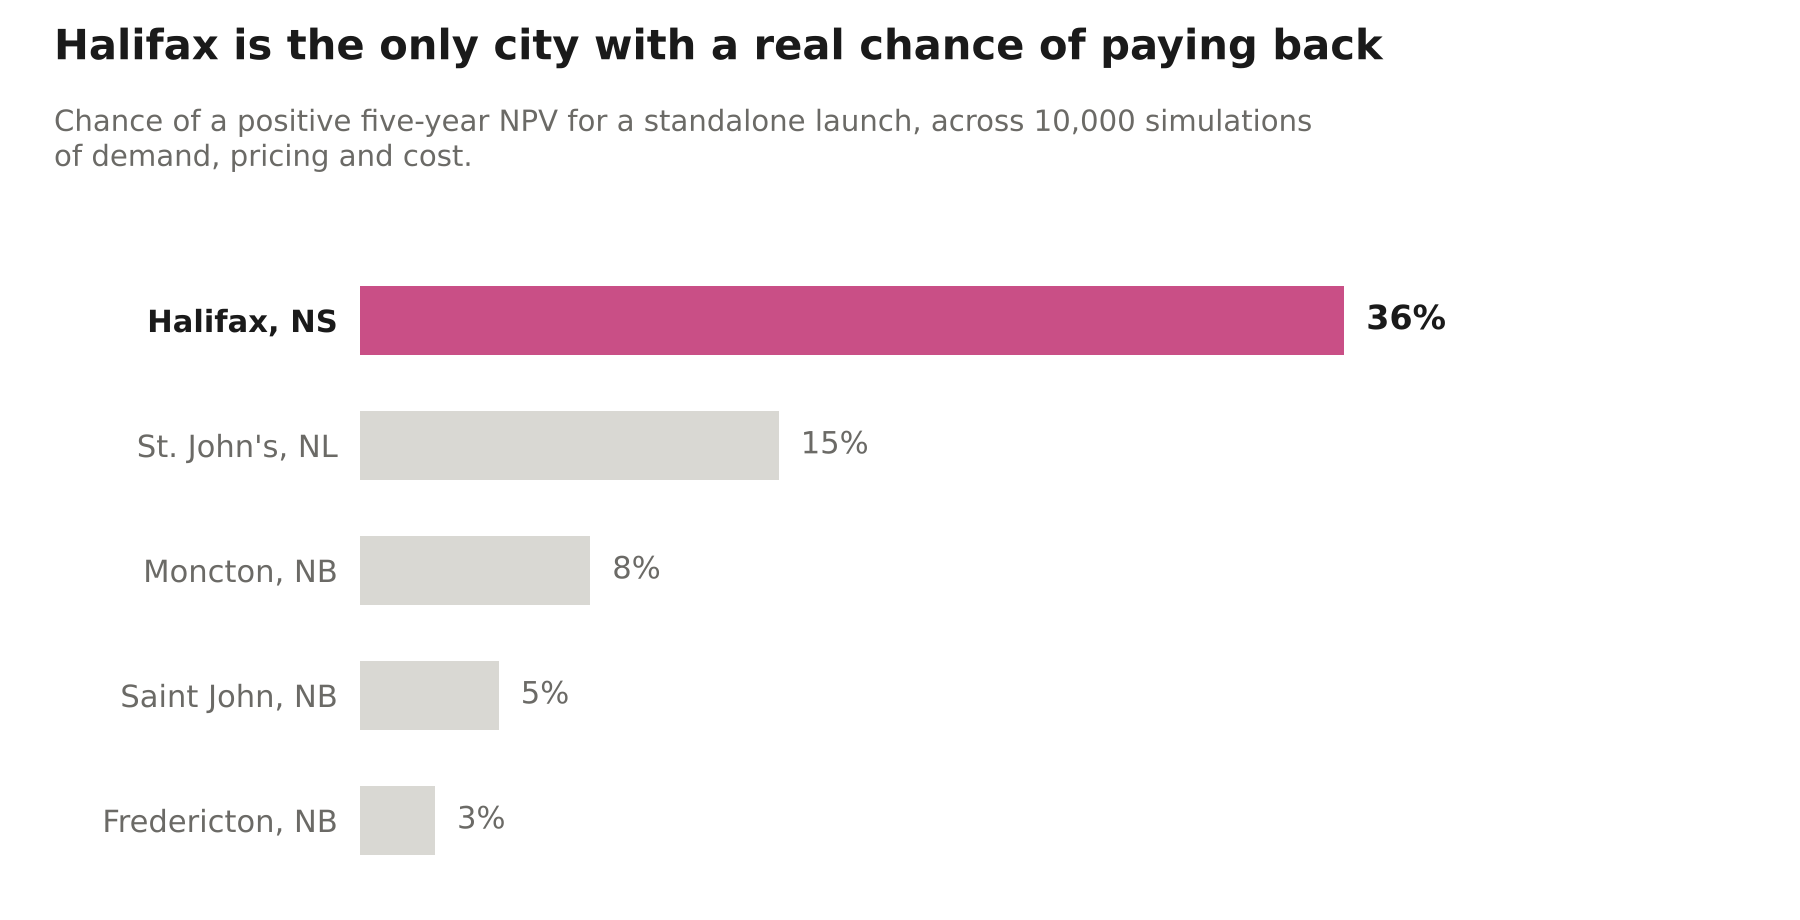
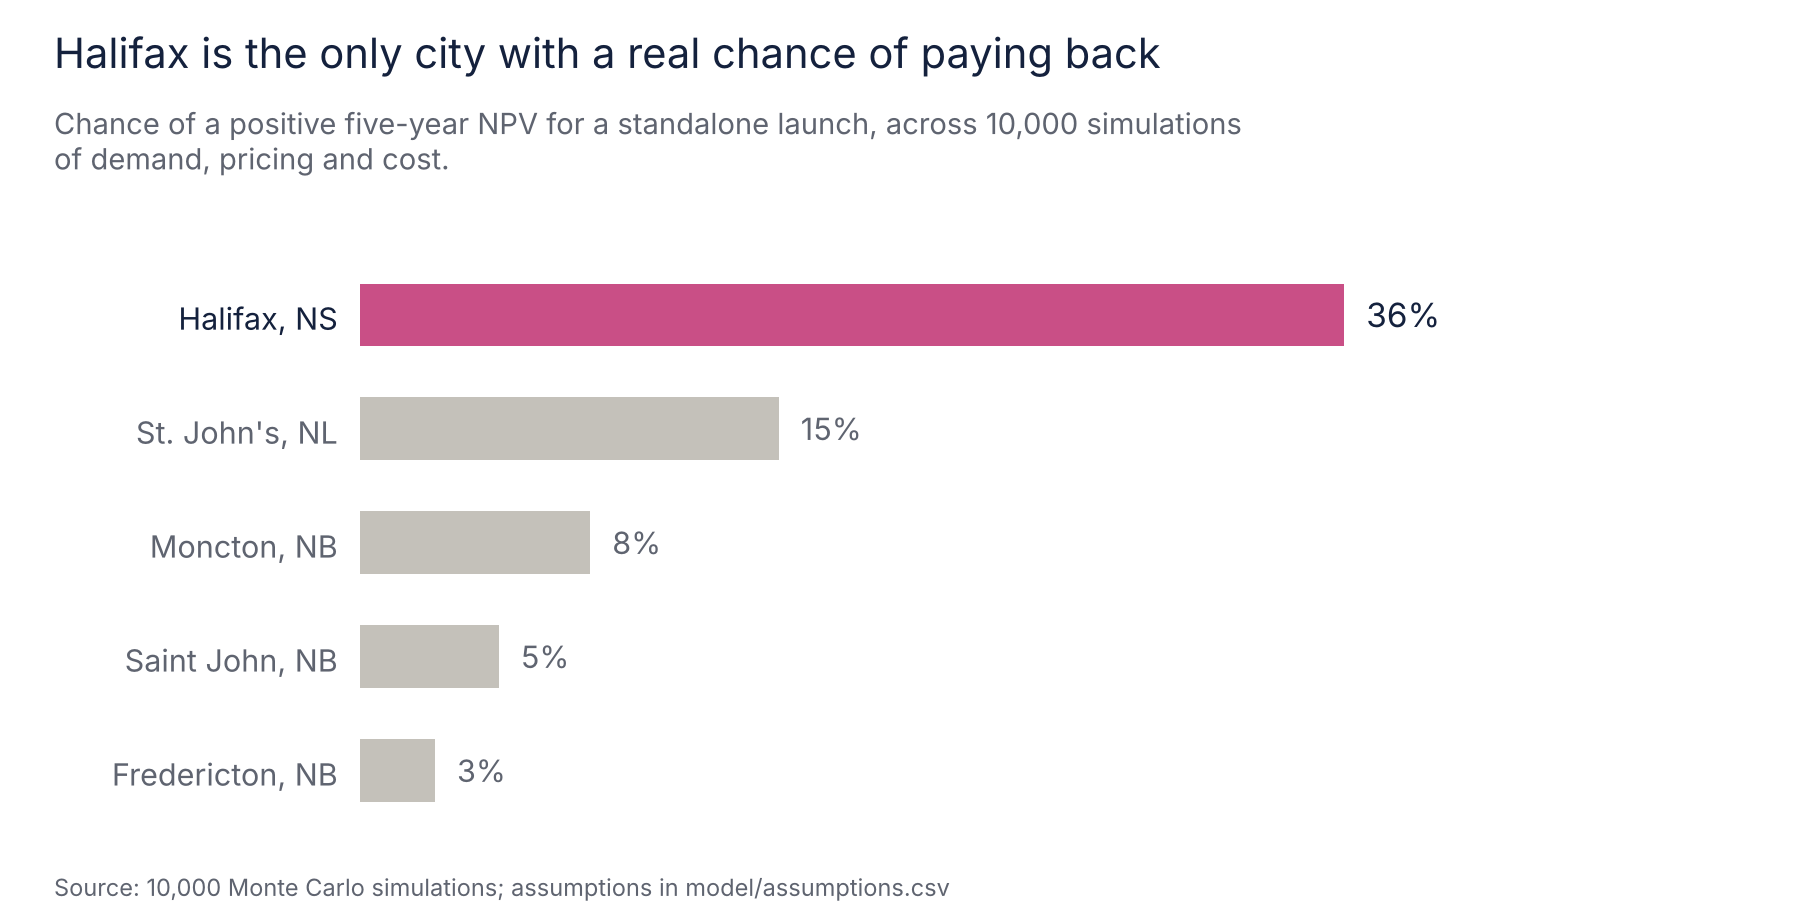
Apply portfolio chart style; note buffered courier cost from the supply simulation

diff --git a/scripts/make_charts.py b/scripts/make_charts.py
@@ -4,25 +4,27 @@ import pandas as pd
 import matplotlib
 matplotlib.use("Agg")
 import matplotlib.pyplot as plt
+import sys as _sys
+_sys.path.insert(0, str(Path(__file__).parent))
+import brand_style as b
 
 ROOT = Path(__file__).resolve().parents[1]
 RES, OUT = ROOT / "results", ROOT / "charts"
 OUT.mkdir(exist_ok=True)
-SURFACE, INK, INK2 = "#ffffff", "#1a1a1a", "#6b6a66"
-HIGHLIGHT, CONTEXT = "#c94f86", "#d9d8d3"
-plt.rcParams.update({"font.family": "DejaVu Sans", "font.size": 11, "text.color": INK,
+SURFACE, INK, INK2 = "#ffffff", b.INK, b.MUTED
+HIGHLIGHT, CONTEXT = b.PROJECT["market-entry-investment-case"], b.CONTEXT
+plt.rcParams.update({"font.family": "sans-serif", "font.size": 11, "text.color": INK,
                      "figure.facecolor": SURFACE, "axes.facecolor": SURFACE})
 
 
 def titles(fig, title, subtitle):
-    fig.text(0.03, 0.97, title, fontsize=15, fontweight="bold", va="top")
+    fig.text(0.03, 0.97, title, fontsize=15, va="top")
     fig.text(0.03, 0.885, subtitle, fontsize=10.5, color=INK2, va="top")
 
 
 def style_h(ax, hi_idx, n):
     for i, lbl in enumerate(ax.get_yticklabels()):
         lbl.set_color(INK if i == hi_idx else INK2)
-        lbl.set_fontweight("bold" if i == hi_idx else "normal")
     for s in ax.spines.values():
         s.set_visible(False)
     ax.set_xticks([])
@@ -36,14 +38,14 @@ hi = len(mc) - 1
 ax.barh(mc["city"], mc["prob_npv_positive"] * 100, height=0.55,
         color=[HIGHLIGHT if i == hi else CONTEXT for i in range(len(mc))])
 for y, v in enumerate(mc["prob_npv_positive"]):
-    ax.text(v * 100 + 0.8, y, f"{v:.0%}", va="center", fontsize=12 if y == hi else 11,
-            fontweight="bold" if y == hi else "normal", color=INK if y == hi else INK2)
+    ax.text(v * 100 + 0.8, y, f"{v:.0%}", va="center", fontsize=12 if y == hi else 11, color=INK if y == hi else INK2)
 style_h(ax, hi, len(mc))
 ax.set_xlim(0, 50)
 titles(fig, "Halifax is the only city with a real chance of paying back",
        "Chance of a positive five-year NPV for a standalone launch, across 10,000 simulations\n"
        "of demand, pricing and cost.")
-fig.subplots_adjust(left=0.2, right=0.97, top=0.72, bottom=0.04)
+fig.subplots_adjust(left=0.2, right=0.97, top=0.72, bottom=0.1)
+b.source(fig, "10,000 Monte Carlo simulations; assumptions in model/assumptions.csv")
 fig.savefig(OUT / "01_chance_of_payback_by_city.png", dpi=200)
 plt.close(fig)
 
@@ -63,14 +65,15 @@ ax.axvline(0, color=INK2, linewidth=0.8)
 for y, v in enumerate(vals):
     txt = f"{'+' if v > 0 else '-'}${abs(v):.2f}M"
     ax.text(v + (0.06 if v >= 0 else -0.06), y, txt, va="center", ha="left" if v >= 0 else "right",
-            fontsize=12 if y == hi else 11, fontweight="bold" if y == hi else "normal",
+            fontsize=12 if y == hi else 11,
             color=INK if y == hi else INK2)
 style_h(ax, hi, len(w))
 ax.set_xlim(-1.6, 2.0)
 titles(fig, "Efficient courier operations turn Halifax from a loss to a gain",
        "Expected five-year NPV of a Halifax launch, overall and in the simulations where each\n"
        "condition holds.")
-fig.subplots_adjust(left=0.27, right=0.97, top=0.72, bottom=0.04)
+fig.subplots_adjust(left=0.27, right=0.97, top=0.72, bottom=0.1)
+b.source(fig, "10,000 Monte Carlo simulations; assumptions in model/assumptions.csv")
 fig.savefig(OUT / "02_what_has_to_be_true.png", dpi=200)
 plt.close(fig)
 print("Charts saved to charts/")

diff --git a/scripts/brand_style.py b/scripts/brand_style.py
@@ -1,0 +1,90 @@
+"""Shared chart style for Ekene Okafor's portfolio.
+
+One message per chart, stated in a sentence-case headline (regular weight, not bold or all caps),
+a short deck underneath, one highlight colour with grey for context, direct labels instead of legends,
+no gridlines, horizontal text only, bars from zero, and a source line.
+Colours are validated with the dataviz palette checks (lightness band, chroma, contrast, CVD).
+"""
+import matplotlib
+import matplotlib.pyplot as plt
+
+INK = "#14213d"        # navy: headlines, values, key labels
+MUTED = "#5f6470"      # deck, axis labels, source line (5.9:1 on white)
+CONTEXT = "#c4c1ba"    # grey for everything that is not the message (always direct-labelled)
+HAIRLINE = "#dedbd4"   # baselines and reference lines
+SURFACE = "#ffffff"
+BRAND_ACCENT = "#e0612e"  # signature orange
+
+# One highlight colour per project, so each repo is recognisable; never mixed in one chart
+PROJECT = {
+    "city-expansion-scorecard": "#2a78d6",
+    "campaign-uplift-targeting": "#e0612e",
+    "saas-cross-sell-playbook": "#14946a",
+    "business-review-agent": "#6250d6",
+    "marketplace-supply-simulation": "#2f8a2f",
+    "market-entry-investment-case": "#c94f86",
+    "funnel-attribution-audit": "#b35900",
+    "gtm-launch-playbook": "#d1495b",
+    "crm-data-hygiene-audit": "#00819e",
+}
+
+matplotlib.rcParams.update({
+    "font.family": "sans-serif",
+    "font.sans-serif": ["Inter", "Helvetica", "Arial", "DejaVu Sans"],
+    "axes.edgecolor": HAIRLINE,
+    "axes.labelcolor": MUTED,
+    "xtick.color": MUTED,
+    "ytick.color": MUTED,
+    "figure.facecolor": SURFACE,
+    "axes.facecolor": SURFACE,
+    "savefig.facecolor": SURFACE,
+})
+
+
+def figure(width=8.0, height=5.0):
+    """Default 8 x 5 (a 5:8 height to width ratio)."""
+    fig, ax = plt.subplots(figsize=(width, height), dpi=150)
+    return fig, ax
+
+
+def clean(ax, keep="x"):
+    """Remove chart junk. keep='x' keeps a bottom baseline (vertical bars, lines);
+    keep='y' keeps a left baseline (horizontal bars); keep=None removes both."""
+    for side in ["top", "right", "left", "bottom"]:
+        ax.spines[side].set_visible(False)
+    if keep == "x":
+        ax.spines["bottom"].set_visible(True)
+        ax.spines["bottom"].set_color(HAIRLINE)
+    if keep == "y":
+        ax.spines["left"].set_visible(True)
+        ax.spines["left"].set_color(HAIRLINE)
+    ax.grid(False)
+    ax.tick_params(length=0, labelsize=10.5, colors=MUTED)
+    return ax
+
+
+def headline(fig, title, deck=None):
+    """Takeaway headline in sentence case, regular weight, with an optional deck."""
+    fig.text(0.03, 0.965, title, fontsize=15, color=INK, ha="left", va="top")
+    if deck:
+        fig.text(0.03, 0.905, deck, fontsize=10.5, color=MUTED, ha="left", va="top")
+
+
+def source(fig, text):
+    fig.text(0.03, 0.02, f"Source: {text}", fontsize=8.5, color=MUTED, ha="left", va="bottom")
+
+
+def finish(fig, path, top=0.84, bottom=0.12, left=0.08, right=0.97):
+    fig.subplots_adjust(top=top, bottom=bottom, left=left, right=right)
+    fig.savefig(path, dpi=150, facecolor=SURFACE)
+    plt.close(fig)
+
+
+STREAMLIT_THEME = """[theme]
+base = "light"
+primaryColor = "{accent}"
+backgroundColor = "#ffffff"
+secondaryBackgroundColor = "#f7f6f2"
+textColor = "#14213d"
+font = "sans serif"
+"""

diff --git a/app.py b/app.py
@@ -13,7 +13,7 @@ import streamlit as st
 from model.investment_model import load, city_cash_flows, YEARS
 
 st.set_page_config(page_title="Market Entry Investment Case", layout="wide")
-HIGHLIGHT, CONTEXT, INK, INK2 = "#c94f86", "#d9d8d3", "#1a1a1a", "#6b6a66"
+HIGHLIGHT, CONTEXT, INK, INK2 = "#c94f86", "#c4c1ba", "#14213d", "#5f6470"
 N, SEED = 5_000, 7
 NB = ["Moncton, NB", "Saint John, NB", "Fredericton, NB"]
 
@@ -106,7 +106,7 @@ with left:
     for s in ["top", "right", "left"]:
         ax.spines[s].set_visible(False)
     ax.set_xlabel("Five-year NPV ($ millions)", color=INK2)
-    ax.set_title(f"{p_pos:.0%} of simulated outcomes pay back", loc="left", fontsize=13, fontweight="bold", color=INK)
+    ax.set_title(f"{p_pos:.0%} of simulated outcomes pay back", loc="left", fontsize=13, color=INK)
     st.pyplot(fig)
 
 # Chart 2: chance of payback for each city on its own, with current assumptions
@@ -118,15 +118,13 @@ with right:
     ax.barh([r[0] for r in rows], [r[1] * 100 for r in rows], height=0.55,
             color=[HIGHLIGHT if r[0] == best else CONTEXT for r in rows])
     for y, (c, v) in enumerate(rows):
-        ax.text(v * 100 + 1, y, f"{v:.0%}", va="center", color=INK if c == best else INK2,
-                fontweight="bold" if c == best else "normal")
+        ax.text(v * 100 + 1, y, f"{v:.0%}", va="center", color=INK if c == best else INK2)
     ax.set_xticks([])
     ax.set_xlim(0, 115)
     for s in ax.spines.values():
         s.set_visible(False)
     ax.tick_params(axis="y", length=0)
-    ax.set_title(f"{best.split(',')[0]} has the best odds on its own", loc="left", fontsize=13,
-                 fontweight="bold", color=INK)
+    ax.set_title(f"{best.split(',')[0]} has the best odds on its own", loc="left", fontsize=13, color=INK)
     st.pyplot(fig)
 
 # Most likely case cash flows for the plan

diff --git a/README.md b/README.md
@@ -21,7 +21,7 @@ A delivery platform is considering entering Halifax, St. John's, Moncton, Saint 
 - **Break-even share is 9.4%** of local delivery orders by year 3 at the most likely values of every other input
 - **Sharing one operations team across the three New Brunswick cities helps but does not rescue them:** every plan that adds cities to Halifax lowers expected NPV
 
-The courier cost range comes from the companion [marketplace supply simulation](https://github.com/ekene-ok/marketplace-supply-simulation): a demand-shaped courier schedule costs about $8.18 per order, while a flat schedule costs $12.70. In other words, the operating model decides the investment case.
+The courier cost range comes from the companion [marketplace supply simulation](https://github.com/ekene-ok/marketplace-supply-simulation): a demand-shaped courier schedule costs about $8.18 per order at the minimum, or $8.79 with the buffer the simulation recommends against forecast error, while a flat schedule costs $12.70. Both shaped figures clear the $9 bar. In other words, the operating model decides the investment case.
 
 ## Try it yourself
 
